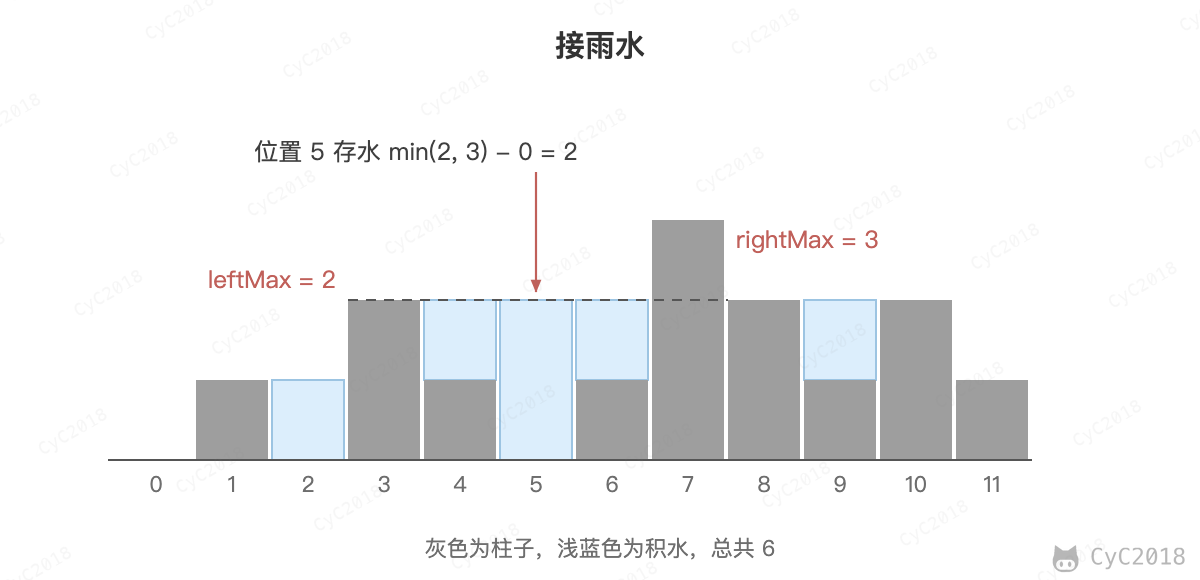
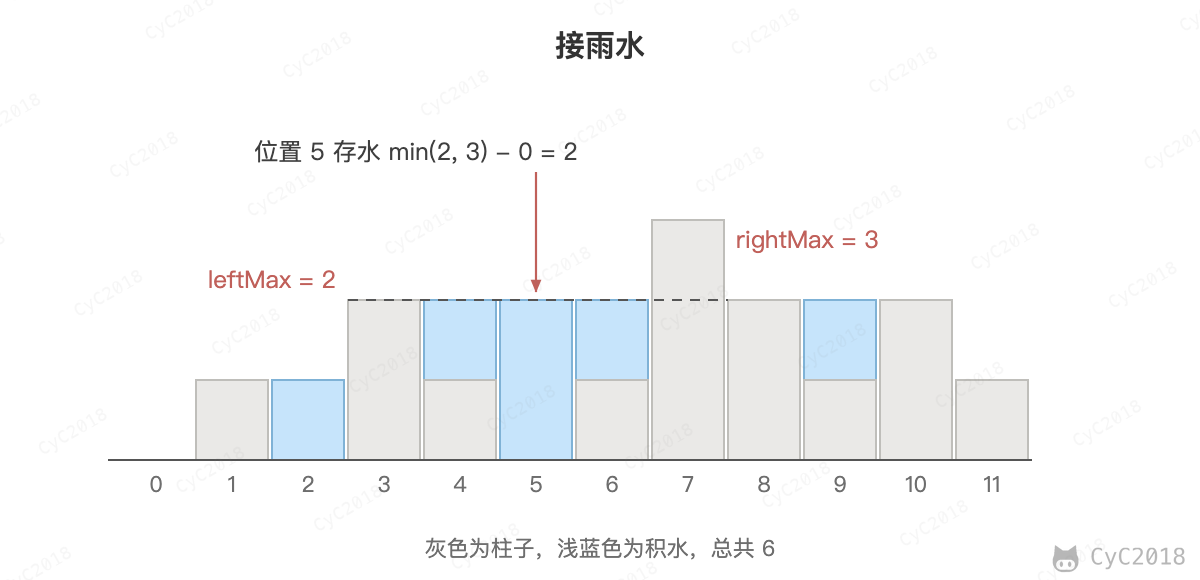
Update Leetcode 题解 - 双指针.md
代码经力扣判题验证；反转元音的空间复杂度、最长子序列的描述按代码更新；重新绘制配图，接雨水的配图改由脚本生成，难度标注按力扣更新，第一人称改为客观陈述，示例代码块的语言标注改为 text。

Changed region(s): [[0.4625, 0.3724, 0.8633, 0.8069], [0.1542, 0.4966, 0.4317, 0.8069]]

diff --git a/notes/Leetcode 题解 - 双指针.md b/notes/Leetcode 题解 - 双指针.md
@@ -18,11 +18,11 @@
 
 ## 1. 有序数组的 Two Sum
 
-167\. Two Sum II - Input array is sorted (Easy)
+167\. Two Sum II - Input Array Is Sorted (Medium)
 
 [Leetcode](https://leetcode.com/problems/two-sum-ii-input-array-is-sorted/description/) / [力扣](https://leetcode-cn.com/problems/two-sum-ii-input-array-is-sorted/description/)
 
-```html
+```text
 Input: numbers={2, 7, 11, 15}, target=9
 Output: index1=1, index2=2
 ```
@@ -59,11 +59,11 @@ public int[] twoSum(int[] numbers, int target) {
 
 ## 2. 两数平方和
 
-633\. Sum of Square Numbers (Easy)
+633\. Sum of Square Numbers (Medium)
 
 [Leetcode](https://leetcode.com/problems/sum-of-square-numbers/description/) / [力扣](https://leetcode-cn.com/problems/sum-of-square-numbers/description/)
 
-```html
+```text
 Input: 5
 Output: True
 Explanation: 1 * 1 + 2 * 2 = 5
@@ -75,7 +75,7 @@ Explanation: 1 * 1 + 2 * 2 = 5
 
 本题和 167\. Two Sum II - Input array is sorted 类似，只有一个明显区别：一个是和为 target，一个是平方和为 target。本题同样可以使用双指针得到两个数，使其平方和为 target。
 
-本题的关键是右指针的初始化，实现剪枝，从而降低时间复杂度。设右指针为 x，左指针固定为 0，为了使 0<sup>2</sup> + x<sup>2</sup> 的值尽可能接近 target，我们可以将 x 取为 sqrt(target)。
+本题的关键是右指针的初始化，实现剪枝，从而降低时间复杂度。设右指针为 x，左指针固定为 0，为了使 0<sup>2</sup> + x<sup>2</sup> 的值尽可能接近 target，可以将 x 取为 sqrt(target)。
 
 因为最多只需要遍历一次 0\~sqrt(target)，所以时间复杂度为 O(sqrt(target))。又因为只使用了两个额外的变量，因此空间复杂度为 O(1)。
 
@@ -103,18 +103,18 @@ Explanation: 1 * 1 + 2 * 2 = 5
 
 [Leetcode](https://leetcode.com/problems/reverse-vowels-of-a-string/description/) / [力扣](https://leetcode-cn.com/problems/reverse-vowels-of-a-string/description/)
 
-```html
+```text
 Given s = "leetcode", return "leotcede".
 ```
 
-<div align="center"> <img src="https://cs-notes-1256109796.cos.ap-guangzhou.myqcloud.com/a7cb8423-895d-4975-8ef8-662a0029c772.png" width="400px"> </div><br>
+<div align="center"> <img src="pics/lc-two-pointers-vowels.png" width="540px"/> </div><br>
 
 使用双指针，一个指针从头向尾遍历，一个指针从尾到头遍历，当两个指针都遍历到元音字符时，交换这两个元音字符。
 
-为了快速判断一个字符是不是元音字符，我们将全部元音字符添加到集合 HashSet 中，从而以 O(1) 的时间复杂度进行该操作。
+为了快速判断一个字符是不是元音字符，将全部元音字符添加到集合 HashSet 中，从而以 O(1) 的时间复杂度进行该操作。
 
 - 时间复杂度为 O(N)：只需要遍历所有元素一次
-- 空间复杂度 O(1)：只需要使用两个额外变量
+- 空间复杂度 O(N)：Java 的字符串不可修改，需要一个与 s 等长的字符数组保存结果
 
 <div align="center"> <img src="https://cs-notes-1256109796.cos.ap-guangzhou.myqcloud.com/ef25ff7c-0f63-420d-8b30-eafbeea35d11.gif" width="400px"> </div><br>
 
@@ -148,7 +148,7 @@ public String reverseVowels(String s) {
 
 [Leetcode](https://leetcode.com/problems/valid-palindrome-ii/description/) / [力扣](https://leetcode-cn.com/problems/valid-palindrome-ii/description/)
 
-```html
+```text
 Input: "abca"
 Output: True
 Explanation: You could delete the character 'c'.
@@ -162,11 +162,11 @@ Explanation: You could delete the character 'c'.
 
 <div align="center"> <img src="https://cs-notes-1256109796.cos.ap-guangzhou.myqcloud.com/fcc941ec-134b-4dcd-bc86-1702fd305300.gif" width="250px"> </div><br>
 
-本题的关键是处理删除一个字符。在使用双指针遍历字符串时，如果出现两个指针指向的字符不相等的情况，我们就试着删除一个字符，再判断删除完之后的字符串是否是回文字符串。
+本题的关键是处理删除一个字符。在使用双指针遍历字符串时，如果出现两个指针指向的字符不相等的情况，就试着删除一个字符，再判断删除完之后的字符串是否是回文字符串。
 
-在判断是否为回文字符串时，我们不需要判断整个字符串，因为左指针左边和右指针右边的字符之前已经判断过具有对称性质，所以只需要判断中间的子字符串即可。
+在判断是否为回文字符串时，不需要判断整个字符串，因为左指针左边和右指针右边的字符之前已经判断过具有对称性质，所以只需要判断中间的子字符串即可。
 
-在试着删除字符时，我们既可以删除左指针指向的字符，也可以删除右指针指向的字符。
+在试着删除字符时，既可以删除左指针指向的字符，也可以删除右指针指向的字符。
 
 <div align="center"> <img src="https://cs-notes-1256109796.cos.ap-guangzhou.myqcloud.com/db5f30a7-8bfa-4ecc-ab5d-747c77818964.gif" width="300px"> </div><br>
 
@@ -196,7 +196,7 @@ private boolean isPalindrome(String s, int i, int j) {
 
 [Leetcode](https://leetcode.com/problems/merge-sorted-array/description/) / [力扣](https://leetcode-cn.com/problems/merge-sorted-array/description/)
 
-```html
+```text
 Input:
 nums1 = [1,2,3,0,0,0], m = 3
 nums2 = [2,5,6],       n = 3
@@ -265,7 +265,7 @@ Output:
 
 题目描述：删除 s 中的一些字符，使得它构成字符串列表 d 中的一个字符串，找出能构成的最长字符串。如果有多个相同长度的结果，返回字典序的最小字符串。
 
-通过删除字符串 s 中的一个字符能得到字符串 t，可以认为 t 是 s 的子序列，我们可以使用双指针来判断一个字符串是否为另一个字符串的子序列。
+通过删除字符串 s 中的一些字符能得到字符串 t，可以认为 t 是 s 的子序列。使用双指针可以判断一个字符串是否为另一个字符串的子序列。
 
 ```java
 public String findLongestWord(String s, List<String> d) {
